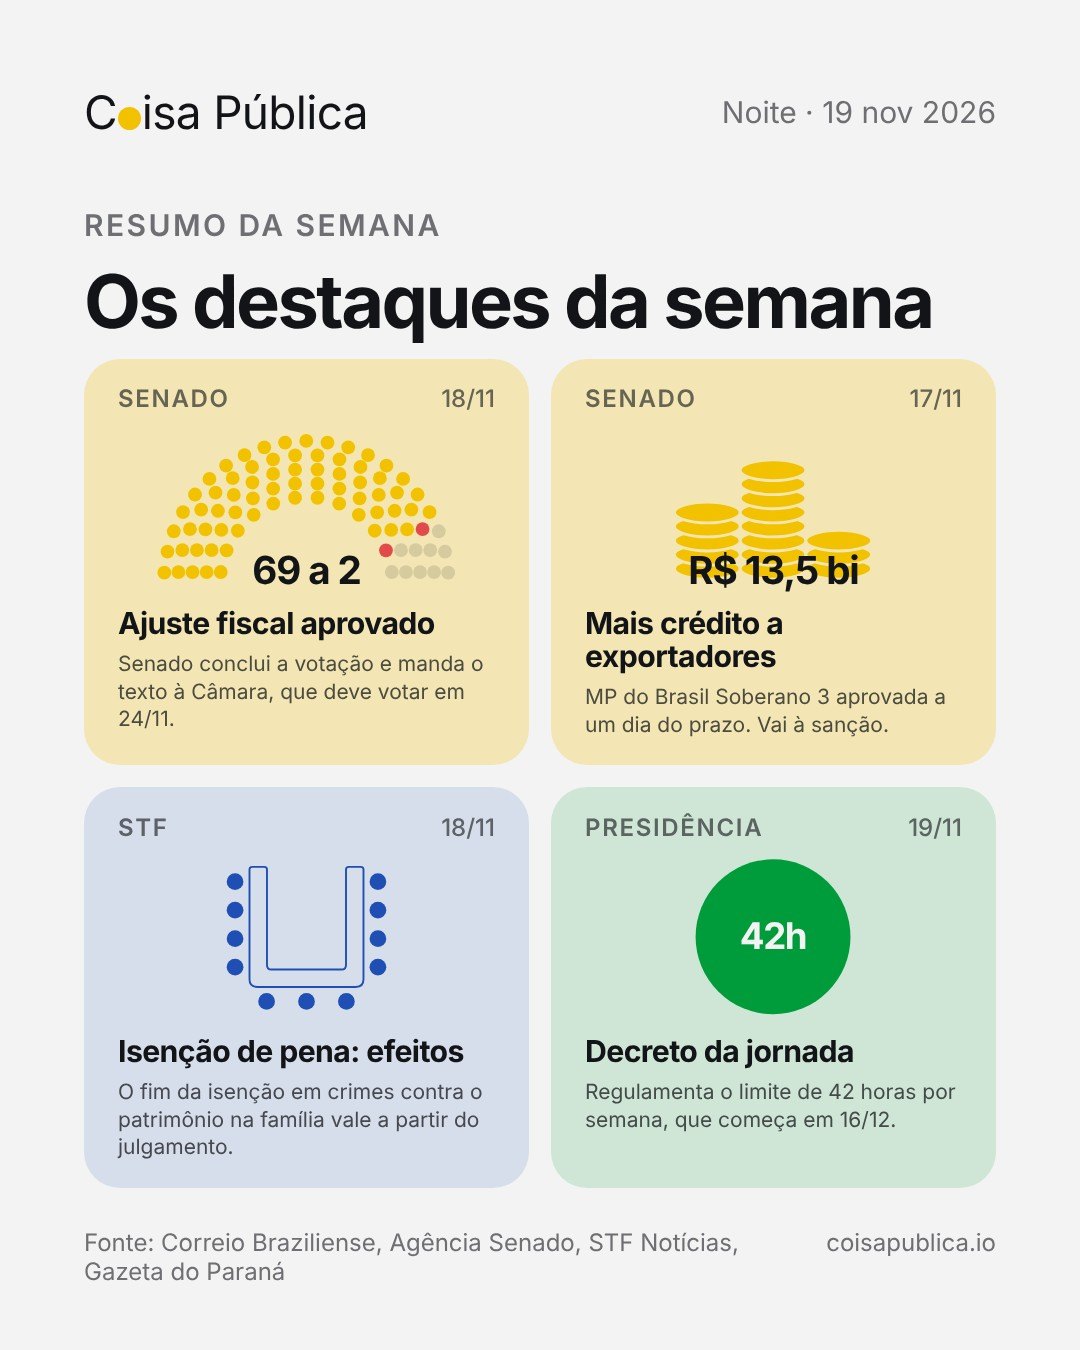
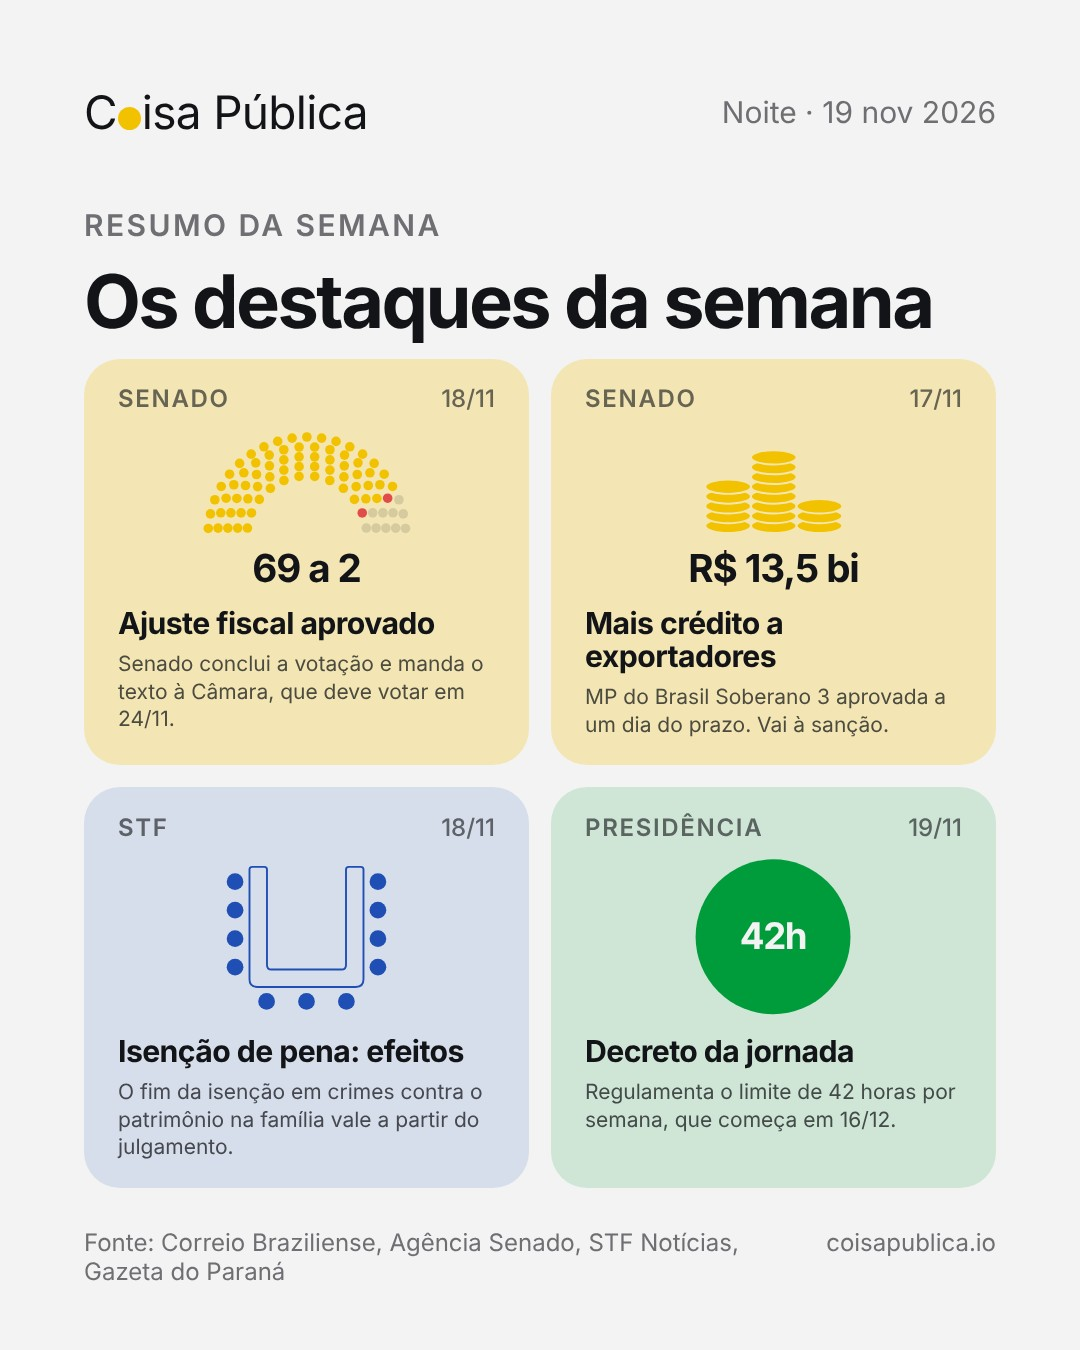
Posts: número fica embaixo do desenho nos cartões de destaques e o placar cabe no vão do plenário; imagens de 19/11 refeitas
Claude-Session: https://claude.ai/code/session_01LhzKyKG2cJodpzHf89NtW1

Changed region(s): [[0.1222, 0.3111, 0.4278, 0.4356], [0.6111, 0.3111, 0.825, 0.4356]]

diff --git a/scripts/posts/modelo.html b/scripts/posts/modelo.html
@@ -64,9 +64,9 @@ body.cheio.p-exe{--pc:#009C3B;--pci:#F3F3F3}
 .dq-c{border-radius:36px;padding:calc(30px * var(--k)) 34px calc(32px * var(--k));display:flex;flex-direction:column}
 .dq-q{margin:0;display:flex;justify-content:space-between;font-size:24px;letter-spacing:.07em;text-transform:uppercase;font-weight:600;color:color-mix(in srgb,var(--ink) 62%,var(--tcard))}
 .dq-q span{letter-spacing:0;font-weight:500}
-.dq-d{position:relative;height:calc(190px * var(--k));margin:calc(18px * var(--k)) 0 calc(14px * var(--k));display:flex;align-items:flex-end;justify-content:center}
-.dq-d svg{display:block;height:100%;width:auto;max-width:100%}
-.dq-n{position:absolute;left:0;right:0;bottom:-2px;text-align:center;font-size:calc(46px * var(--k));font-weight:700;letter-spacing:-.03em;line-height:1}
+.dq-d{position:relative;height:calc(190px * var(--k));margin:calc(18px * var(--k)) 0 calc(14px * var(--k));display:flex;flex-direction:column;align-items:center;justify-content:flex-end}
+.dq-d svg{display:block;flex:1 1 0;min-height:0;height:100%;width:auto;max-width:100%}
+.dq-n{display:block;flex:none;margin-top:calc(12px * var(--k));text-align:center;font-size:calc(46px * var(--k));font-weight:700;letter-spacing:-.03em;line-height:1}
 .dq-t{margin:calc(8px * var(--k)) 0 0;font-size:calc(36px * var(--k));line-height:1.1;letter-spacing:-.02em;font-weight:700}
 .dq-s{margin:10px 0 0;font-size:calc(25px * var(--k));line-height:1.32;color:color-mix(in srgb,var(--ink) 74%,var(--tcard))}
 .vt-l{display:flex;justify-content:center;gap:40px;margin-top:calc(22px * var(--k));font-size:28px;color:var(--muted)}.vt-l b{font-size:44px;color:var(--ink);letter-spacing:-.02em;margin-right:4px}.vt-l i{display:inline-block;width:22px;height:22px;border-radius:50%;margin-right:12px;vertical-align:2px}

diff --git a/scripts/posts/render.js b/scripts/posts/render.js
@@ -86,8 +86,10 @@ function visual(V, poder){
       marca = `<line x1="${x1.toFixed(1)}" y1="${y1.toFixed(1)}" x2="${x2.toFixed(1)}" y2="${y2.toFixed(1)}" stroke="var(--ink)" stroke-width="3.5" stroke-dasharray="9 8" stroke-linecap="round"/><text x="${(x2+12).toFixed(1)}" y="${(y2+6).toFixed(1)}" font-size="25" font-weight="600" fill="var(--ink)">${esc(V.minimoTexto || ('mínimo: ' + V.minimo))}</text>`; }
     const L = V.rotulos || ['sim','não','não votaram'];
     const outros = T - sim - nao;
+    // o placar cabe dentro do vão do arco, sem encostar nas cadeiras
+    const fs = Math.min(88, Math.floor(2*(R0 - r - 18) / (String(sim + ' a ' + nao).length * 0.56)));
     return `<div style="width:100%"><svg viewBox="0 -40 760 420" width="100%" style="display:block;font-family:inherit">${marca}${seats.map((p,i)=>`<circle cx="${p.x.toFixed(1)}" cy="${p.y.toFixed(1)}" r="${r}" fill="${cor(i)}"/>`).join('')}
-      <text x="${cx}" y="${cy-6}" text-anchor="middle" font-size="88" font-weight="700" letter-spacing="-4" fill="var(--ink)">${sim} a ${nao}</text></svg>
+      <text x="${cx}" y="${cy-6}" text-anchor="middle" font-size="${fs}" font-weight="700" letter-spacing="-4" fill="var(--ink)">${sim} a ${nao}</text></svg>
       <div class="vt-l"><span><i style="background:var(--pc)"></i><b>${sim}</b> ${esc(L[0])}</span><span><i style="background:#E24B4A"></i><b>${nao}</b> ${esc(L[1])}</span>${outros ? `<span><i style="background:var(--gray)"></i><b>${outros}</b> ${esc(L[2])}</span>` : ''}</div></div>`;
   }
   if (V.tipo === 'mulheres'){
